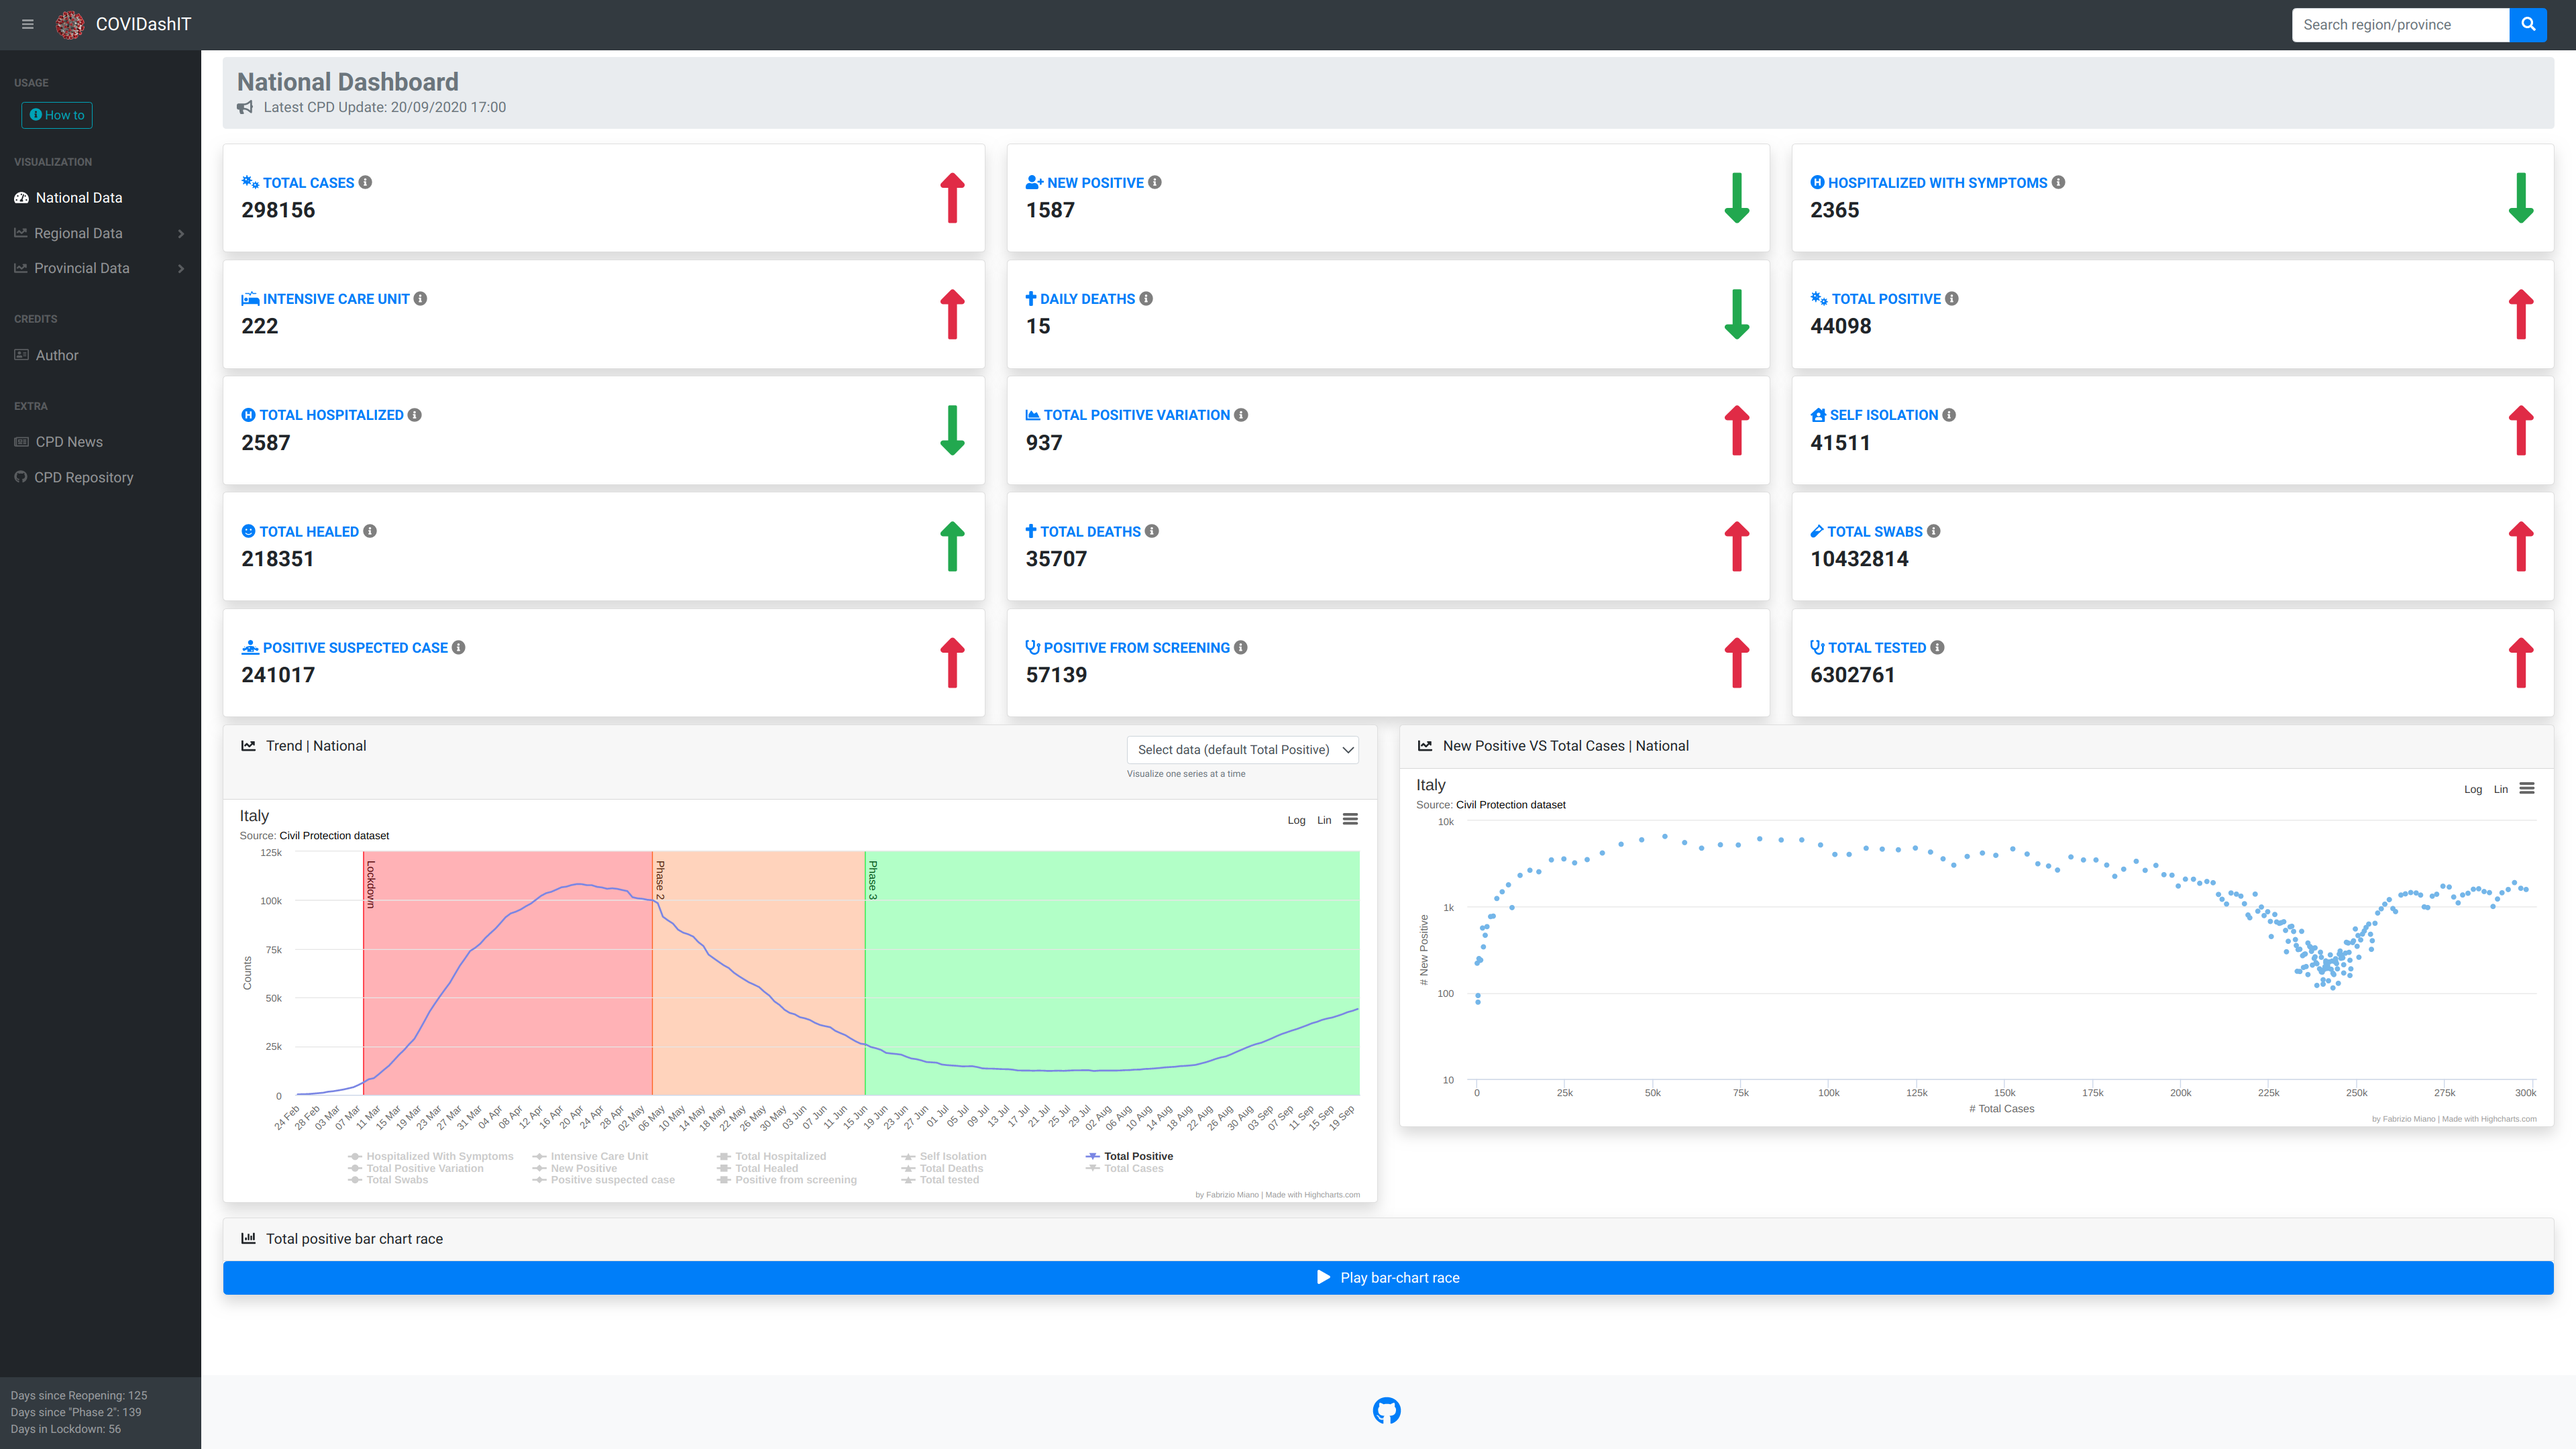
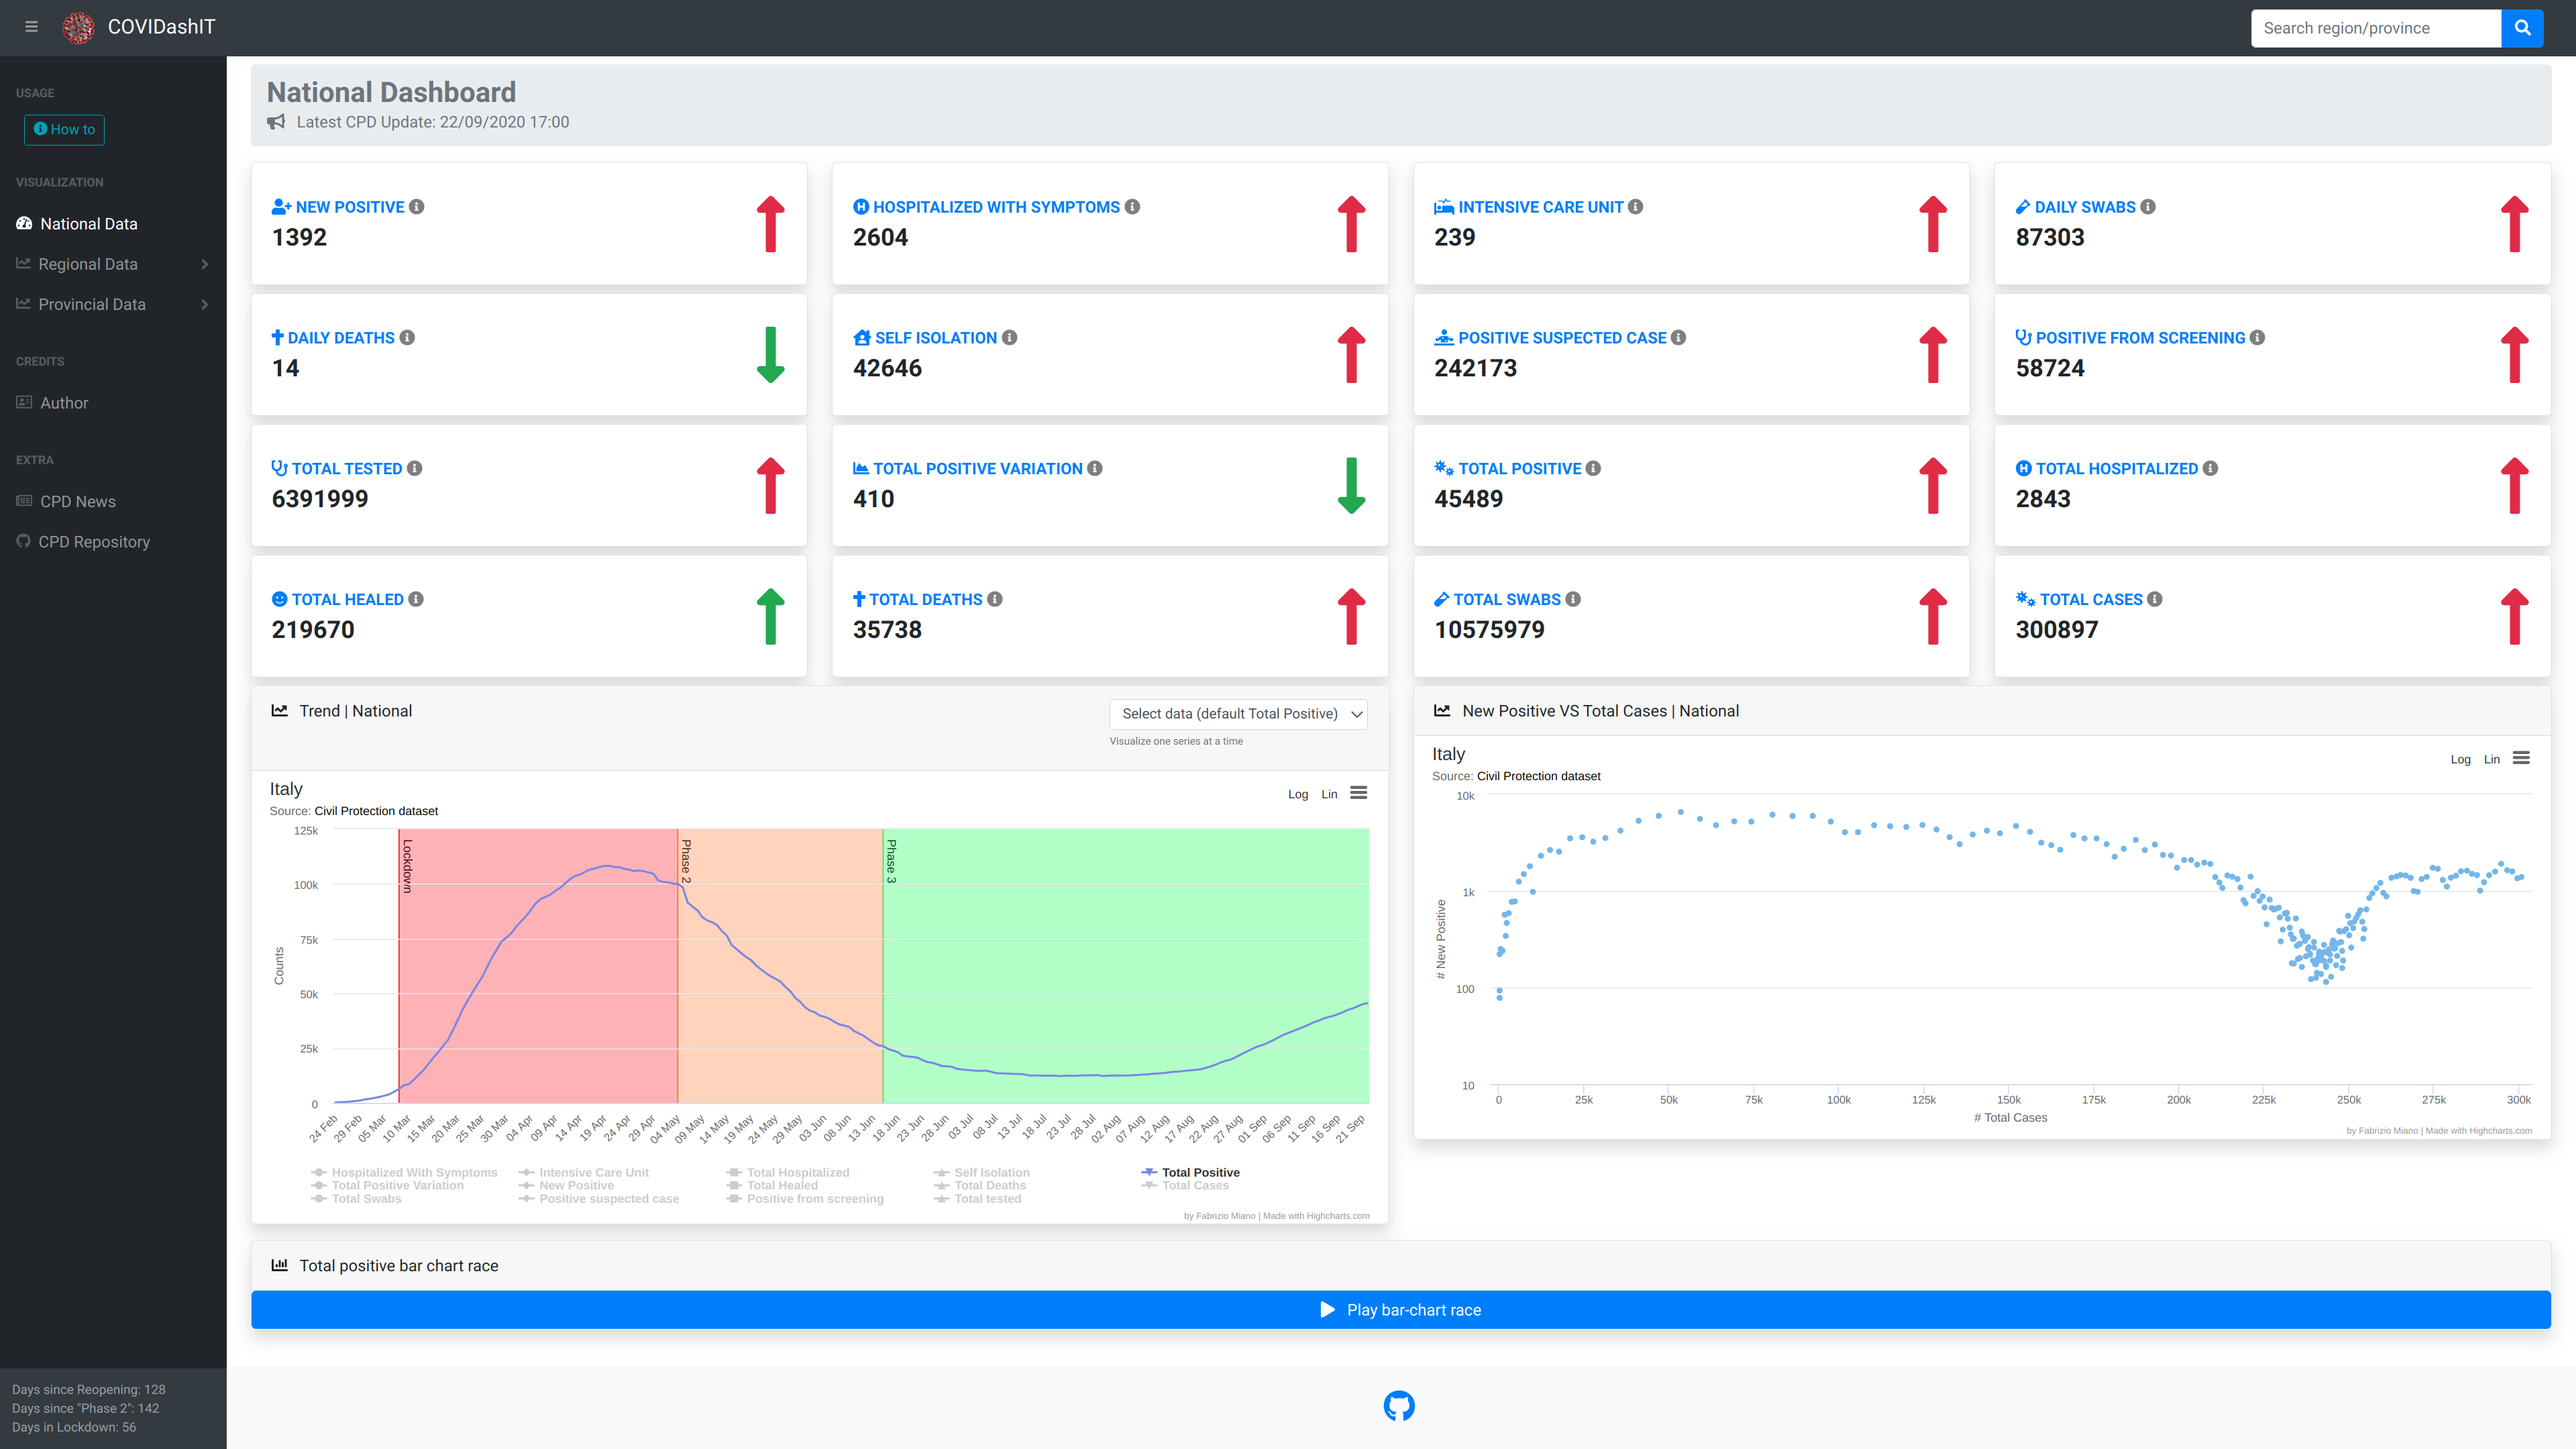
v1.2.3: bugfix: clear DATES and EXP_STATUS lists when initializing data

diff --git a/app/templates/dashboard/cards.html b/app/templates/dashboard/cards.html
@@ -1,7 +1,7 @@
 <!-- Cards -->
 <div class="row">
     {% for t in trend_cards %}
-        <div class="col-xl-4 col-md-6 mb-2">
+        <div class="col-xl-3 col-md-6 mb-2">
             <div class="card border-left-primary shadow h-100 py-2"
                  data-toggle="modal"
                  data-target="#ModalCenter_{{ t.id }}">

diff --git a/config.py b/config.py
@@ -1,5 +1,6 @@
 import datetime as dt
 import os
+from typing import List, Any, Union
 
 from flask_babel import gettext
 
@@ -170,6 +171,17 @@ VARS_CONFIG = {
         "decrease": TREND_SYMBOL_LOGIC["decrease"],
         "stable": TREND_SYMBOL_LOGIC["stable"]
     },
+    "tamponi_giornalieri": {
+        "title": gettext("Daily Swabs"),
+        "desc": gettext("# of swabs performed today"),
+        "longdesc": gettext(
+            "Number of swabs performed today"
+        ),
+        "icon": "fas fa-vial",
+        "increase": TREND_SYMBOL_LOGIC["increase"],
+        "decrease": TREND_SYMBOL_LOGIC["decrease"],
+        "stable": TREND_SYMBOL_LOGIC["stable"]
+    },
     "deceduti_giornalieri": {
         "title": gettext("Daily deaths"),
         "desc": gettext("Daily deaths count"),
@@ -235,15 +247,27 @@ URL_LATEST_PROVINCIAL_DATA = os.path.join(
 BARCHART_RACE_VAR = "totale_positivi"
 #  The order here matters as it will be reflected in the webpage
 CARD_TYPES = [
-    "totale_casi", "nuovi_positivi", "ricoverati_con_sintomi",
-    "terapia_intensiva", "deceduti_giornalieri", "totale_positivi",
-    "totale_ospedalizzati", "variazione_totale_positivi",
-    "isolamento_domiciliare", "dimessi_guariti", "deceduti", "tamponi",
-    "casi_da_sospetto_diagnostico", "casi_da_screening", "casi_testati"
+    "nuovi_positivi",
+    "ricoverati_con_sintomi",
+    "terapia_intensiva",
+    "tamponi_giornalieri",
+    "deceduti_giornalieri",
+    "isolamento_domiciliare",
+    "casi_da_sospetto_diagnostico",
+    "casi_da_screening",
+    "casi_testati",
+    "variazione_totale_positivi",
+    "totale_positivi",
+    "totale_ospedalizzati",
+    "dimessi_guariti",
+    "deceduti",
+    "tamponi",
+    "totale_casi"
 ]
-CUSTOM_CARDS = ["deceduti_giornalieri"]
+CUSTOM_CARDS = ["deceduti_giornalieri", "tamponi_giornalieri"]
 CARD_MAP = {
-    "deceduti_giornalieri": "deceduti"
+    "deceduti_giornalieri": "deceduti",
+    "tamponi_giornalieri": "tamponi"
 }
 REGION_KEY = "denominazione_regione"
 PROVINCE_KEY = "denominazione_provincia"
@@ -298,7 +322,6 @@ DATA_TO_FRONTEND = {
 }
 TRANSLATION_DIRNAME = "translations"
 MONGO_URI = os.environ["MONGO_URI"]
-DB_NAME = os.environ["DB_NAME"]
 COLLECTION_NAME = os.environ["COLLECTION_NAME"]
 BARCHART_RACE_QUERY = {"name": "barchart_race"}
 DATA_SERIES = [

diff --git a/app/datatools.py b/app/datatools.py
@@ -173,7 +173,7 @@ def parse_data(data, area=None):
 
 def fill_data(datum, province=False):
     """
-    Fill the data series lists
+    Fill the "data" lists in VARS_CONFIG
     :param datum: dict
     :param province: bool
     :return: None
@@ -194,11 +194,13 @@ def fill_data(datum, province=False):
 
 def init_data():
     """
-    Empty data series in DATA
+    Empty all the "data" keys in VARS_CONFIG plus DATES and EXP_STATUS
     :return: None
     """
     for key in VARS_CONFIG:
         VARS_CONFIG[key]["data"] = []
+    EXP_STATUS.clear()
+    DATES.clear()
 
 
 def latest_update(data):

diff --git a/app/__init__.py b/app/__init__.py
@@ -5,7 +5,7 @@ from flask_babel import Babel
 from flask_pymongo import PyMongo
 
 from config import (
-    LANGUAGES, TRANSLATION_DIRNAME
+    LANGUAGES, TRANSLATION_DIRNAME, MONGO_URI
 )
 
 mongo = PyMongo()
@@ -13,7 +13,7 @@ mongo = PyMongo()
 
 def create_app():
     app = Flask("app")
-    app.config["MONGO_URI"] = os.environ["MONGO_URI"]
+    app.config["MONGO_URI"] = MONGO_URI
     mongo.init_app(app)
     babel = Babel(app)
     set_error_handlers(app)
